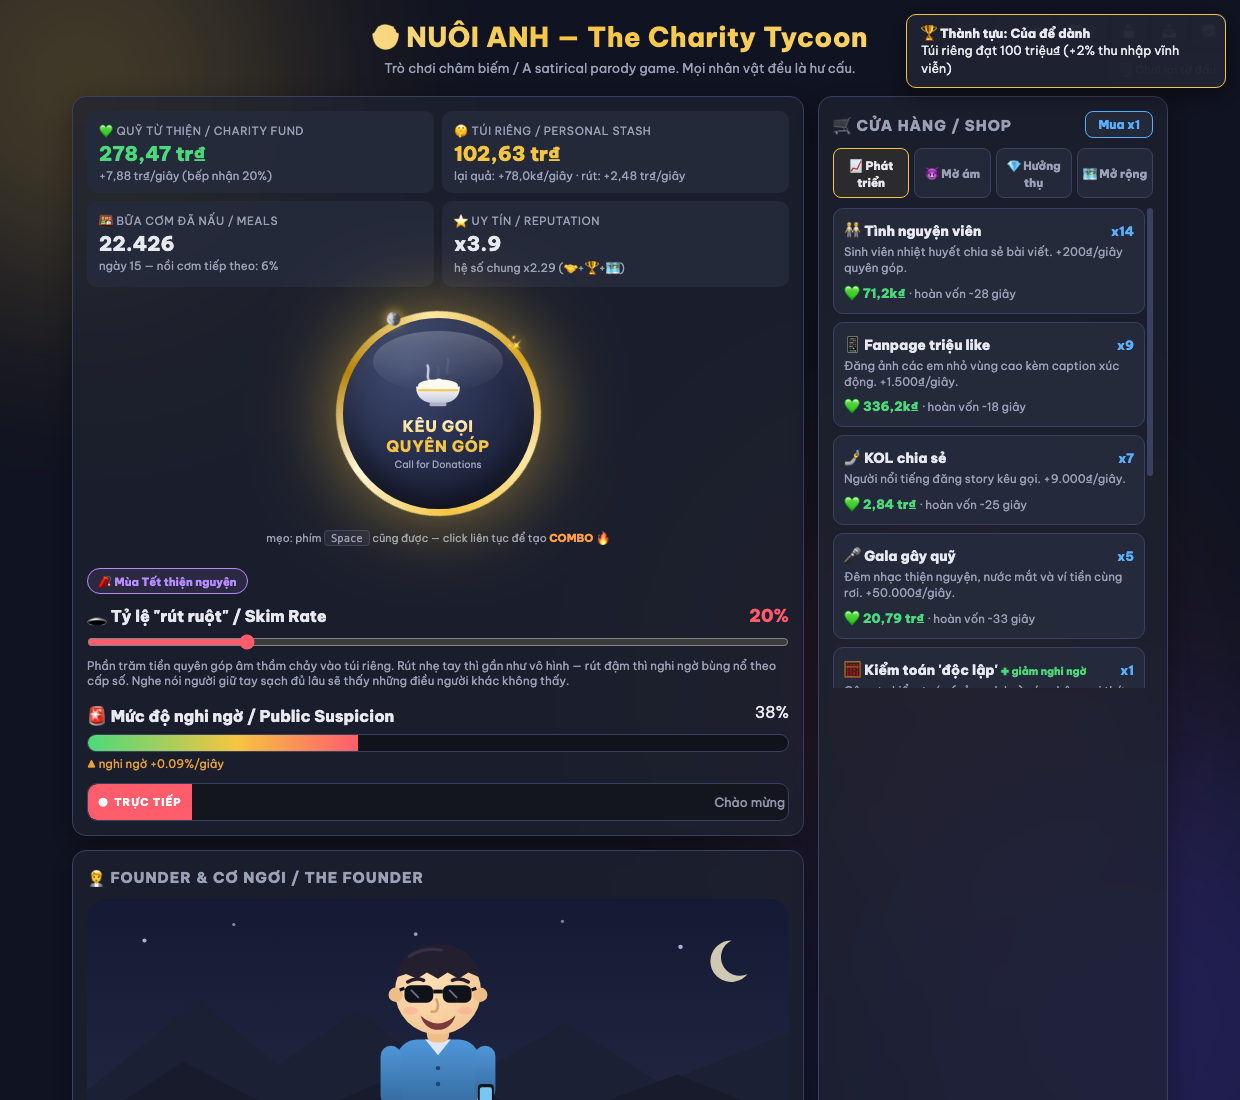
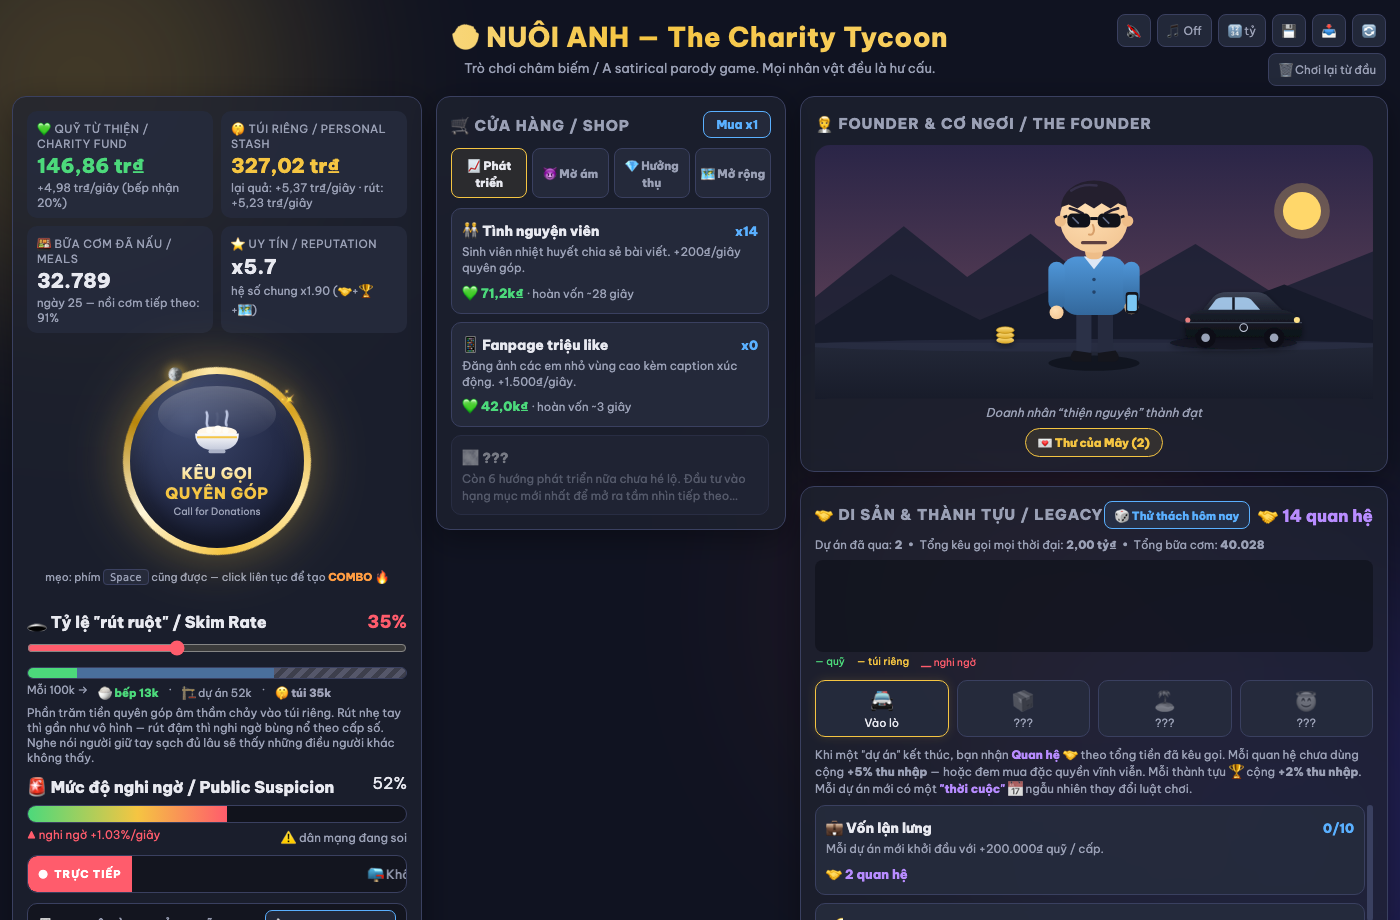
README + repo presentation refresh
- Features rewritten around the visible-money language, May's letters,
  the journalist arc, newspaper endings/archive/cards, conscience audio
- New 1400px 3-column hero screenshot
- Repo description + topics set via gh

diff --git a/README.md b/README.md
@@ -23,14 +23,23 @@ The only way to starve the kitchen is your own greed.
 ## Features
 
 - Single self-contained `index.html` — no build, no dependencies. Open it and play.
-- Prestige meta (connections 🤝 + permanent perks), 4 collectible endings, 25+ achievements.
-- State-aware story events — consequences only for crimes you actually committed, plus
-  devil's-bargain offers if you stay clean.
-- Hand-drawn SVG founder avatar (his face, car, villa, and sweat reflect your choices) and a
-  geo-accurate Vietnam influence map.
-- Synthesized WebAudio SFX + generative ambient music. Golden envelopes, crits, combos,
-  offline earnings, run modifiers, an apology-livestream minigame.
-- Balance tuned by an automated simulator: `node sim.js`, `node sweep.js`.
+  Installable as a PWA, works offline.
+- **Money you can see**: every skimmed click visibly splits (+net rises, −cut sinks with a
+  🤫), the slider shows where each 100k goes, and scheme kickbacks drip into the stash on
+  screen. Even the SFX follow your conscience — clean clicks ring bright, dirty ones dull.
+- **Bé Mây's letters**: stay clean and a child from Điện Biên writes you real letters — and
+  you choose how to write back. Handwritten replies are remembered. Go dirty and the
+  mailbox quietly goes silent.
+- **Chị phóng viên**: a 3-stage investigative arc where bribes get photographed, lawsuits
+  backfire, and genuinely reforming earns you the redemption piece 'Người quay đầu'.
+- **Newspaper endings**: every run ends as a front page written from your own numbers,
+  archived in your case files forever and mintable as a shareable image card.
+- Prestige meta (connections 🤝 + permanent perks), 4 endings, 30+ achievements, lifetime
+  records, daily seeded challenge, day/night cycle, 11 run modifiers, an apology-livestream
+  minigame, state-aware events with consequences only for crimes you actually committed.
+- Hand-drawn SVG founder avatar (his face, car, villa and sweat reflect your choices) and a
+  geo-accurate Vietnam influence map. Synthesized WebAudio everything — no asset files.
+- Balance tuned by an automated simulator against 12 design targets: `node sweep.js`.
 
 ## ⚠️ Disclaimer
 

diff --git a/CHANGELOG.md b/CHANGELOG.md
@@ -1,5 +1,12 @@
 # Changelog
 
+## 2026-06-13 — README + repo presentation refresh (iteration 46)
+- Features section rewritten around what actually defines the game now: the visible-money
+  language, bé Mây's letters & replies, the chị phóng viên arc, newspaper endings →
+  archive → shareable cards, conscience audio. New hero screenshot (1400px 3-column,
+  founder + Mercedes at night, skim mid-temptation).
+- GitHub repo description + topics set (clicker-game, incremental-game, satire, vietnamese).
+
 ## 2026-06-13 — Maintenance sprint 8 + flow reflection (iteration 45)
 - Sweep: 10/12, the two eternal hairlines, optimizer suggestions rejected (sixth time).
 - Bot 5-min: 59 purchases, zero errors, no soft-locks. (letters=0 is correct — a greedy

diff --git a/ROADMAP.md b/ROADMAP.md
@@ -3,10 +3,6 @@
 Ordered; the loop takes from the top. Add freely, prune ruthlessly.
 
 
-1. **README + screenshot refresh** — the features list predates letters/replies, the
-   journalist arc, end cards, conscience audio, and the archive (~15 iterations stale);
-   retake screenshot.png (flagged by the it.45 flow reflection).
-
 9. **Localization toggle** — full English mode for international players (big lift; later).
 10. **Recurring mobile audit** (last done: 2026-06-13 sprint 7, full-page + achievements
     grid verified) — full phone-width walkthrough (shop tabs, overlays, minigame,
@@ -14,6 +10,7 @@ Ordered; the loop takes from the top. Add freely, prune ruthlessly.
 11. ~~Performance pass~~ — audited 2026-06-13: 7 light intervals, renderShop churn negligible; no action.
 
 ## Done (see CHANGELOG.md)
+- README + repo presentation refresh (features, screenshot, description, topics).
 - End cards from the archive (retroactive 🖼️ for any stored case file).
 - Mây's fifth letter (em Suối, 150k meals, reaction pair, school drawing).
 - Shareable end card (canvas image per ending, share/download).